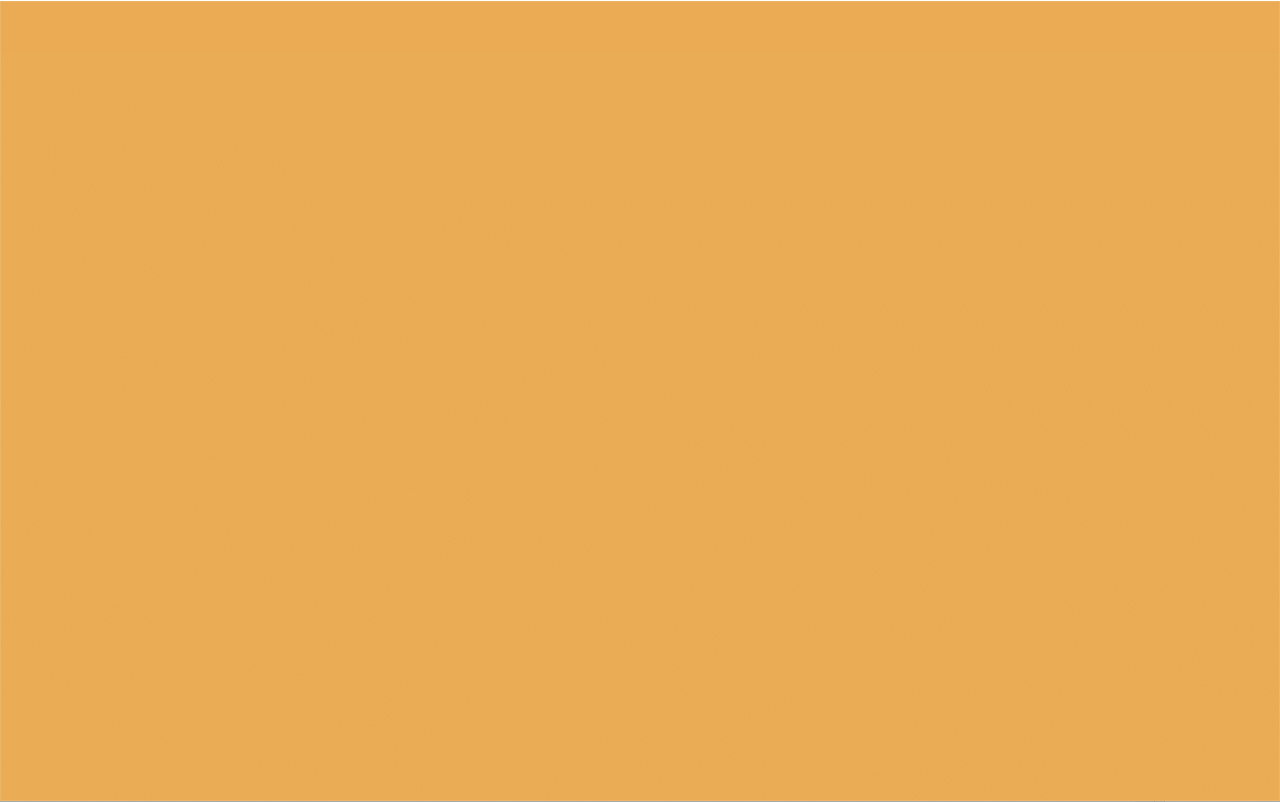
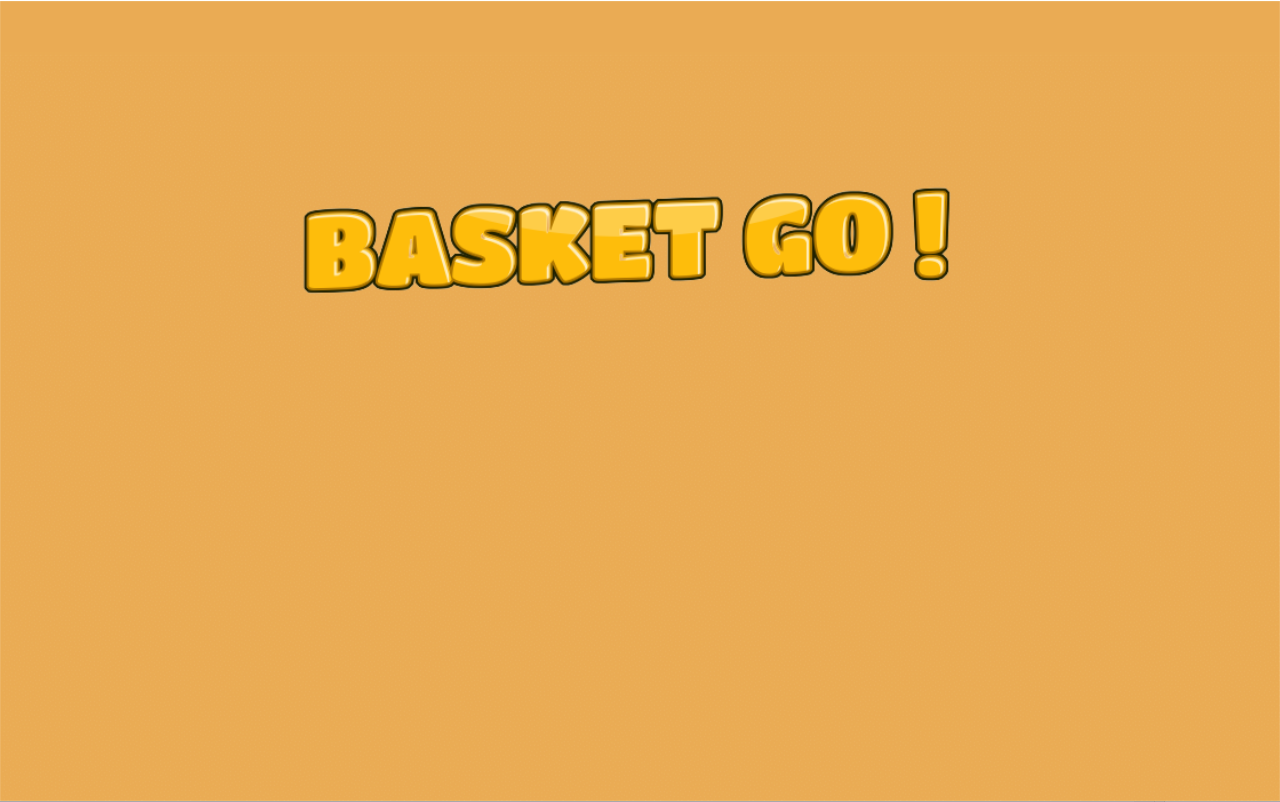
feat: new background

Changed region(s): [[0.2188, 0.2182, 0.75, 0.3741]]

diff --git a/GI.py b/GI.py
@@ -13,7 +13,7 @@ pygame.display.set_caption("ʙᴀsᴋᴇᴛ ɢᴏ !")
 # define window's size.
 window = pygame.display.set_mode((1024,640))
 fond = pygame.image.load('img/bg.png')
-window.blit(fond, (0, 0))
+window.blit(fond, (-110,-20))
 #load button images
 start_img = pygame.image.load('img/start_btn.png').convert_alpha()
 exit_img = pygame.image.load('img/exit_btn.png').convert_alpha()
